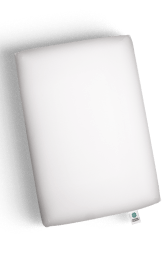
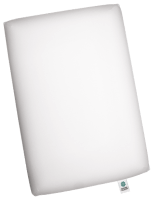
Правил блок lines

Changed region(s): [[0.0, 0.0, 0.987, 0.9429], [0.8571, 0.3429, 0.8831, 0.4286], [0.8831, 0.4286, 0.9091, 0.4571]]

diff --git a/src/scss/components/lines.scss b/src/scss/components/lines.scss
@@ -53,12 +53,17 @@
 
     img {
       position: absolute;
-      left: 0;
-      top: 0;
+      left: 50%;
+      top: 50%;
+      transform: translate(-50%, -50%);
 
       width: 100%;
+      max-width: 90%;
       height: 100%;
+      max-height: 85%;
       object-fit: contain;
+
+      filter: drop-shadow(-34.9054px -8.80987px 22px rgba(0, 0, 0, 0.08)) drop-shadow(-23.6541px -5.97012px 13.61px rgba(0, 0, 0, 0.0957407)) drop-shadow(-16.7417px -4.22548px 8.5963px rgba(0, 0, 0, 0.0839259)) drop-shadow(-12.5441px -3.16605px 5.84375px rgba(0, 0, 0, 0.0715)) drop-shadow(-9.43738px -2.38193px 4.23704px rgba(0, 0, 0, 0.0554074)) drop-shadow(-5.79736px -1.46321px 2.66088px rgba(0, 0, 0, 0.0325926));
     }
   }
 
